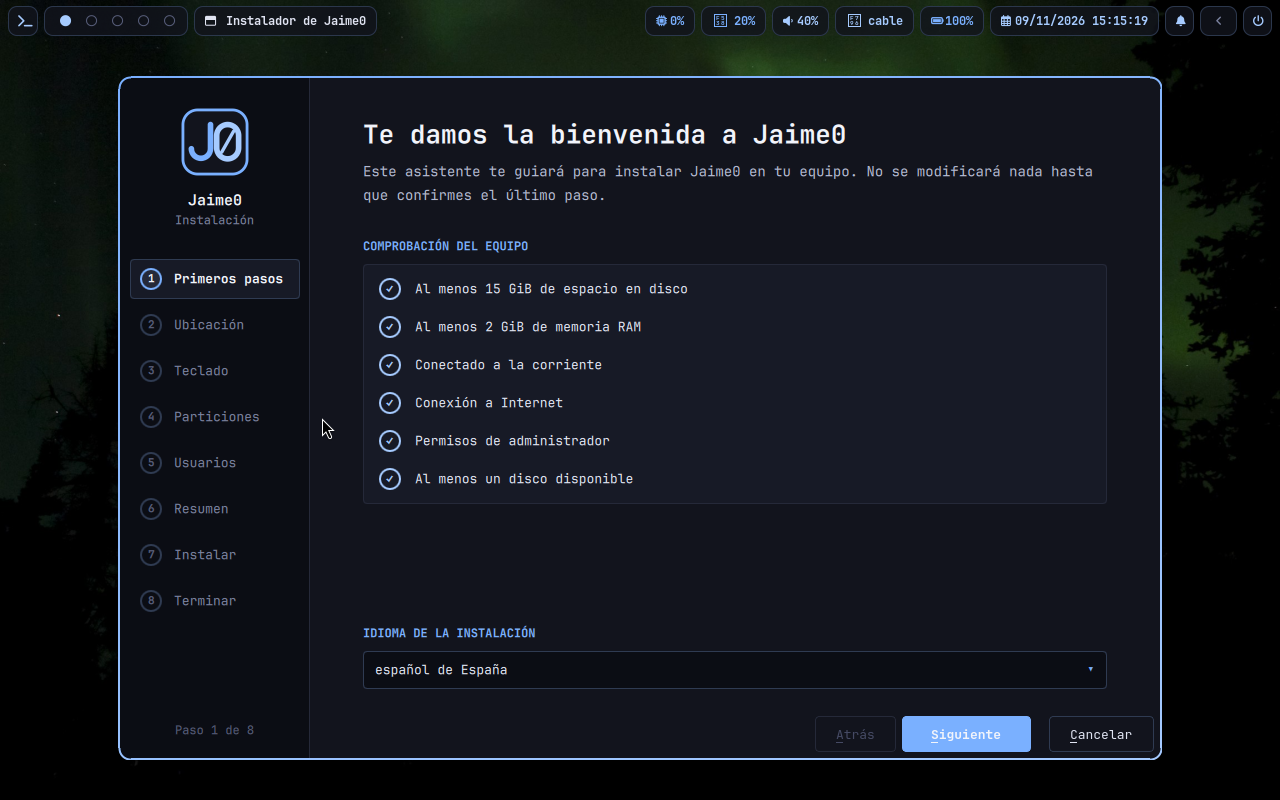
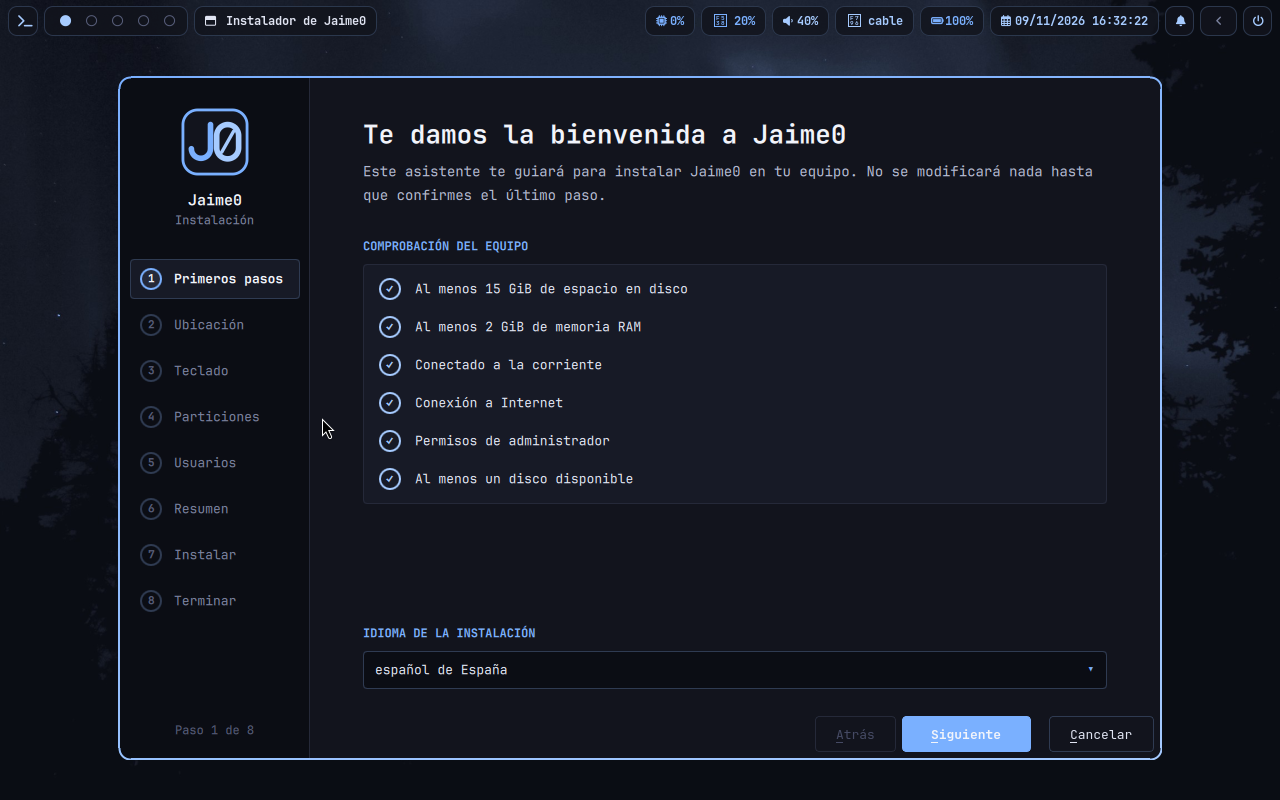
Pasa el fondo de pantalla a tonos azules
La aurora verde se recolorea con la paleta (#0b0d14, #2f3b52 y #7ab0ff) al compilar. La comprobación del fondo mira ahora una rejilla de puntos y exige variedad de tonos azules.

diff --git a/CREDITS.md b/CREDITS.md
@@ -43,6 +43,6 @@ El trabajo original de este repositorio se publica bajo la licencia MIT (`LICENS
 | JetBrainsMono Nerd Font (se descarga al compilar, con SHA256) | JetBrains y Nerd Fonts, SIL OFL 1.1 | https://github.com/ryanoasis/nerd-fonts |
 | Papirus | Papirus Development Team, GPL-3.0 | https://github.com/PapirusDevelopmentTeam/papirus-icon-theme |
 | Adwaita (cursor) | Proyecto GNOME, LGPL-3.0 o CC-BY-SA-3.0 | https://gitlab.gnome.org/GNOME/adwaita-icon-theme |
-| Fondo `aurora.jpg`: «Aurora over the boreal forest» | NPS Photo / Tim Rains, Servicio de Parques Nacionales de EE. UU., dominio público | https://commons.wikimedia.org/wiki/File:Aurora_over_the_boreal_forest_(57be20e1-a3cf-453e-9632-2d38df39b643).jpg |
+| Fondo `aurora.jpg`: «Aurora over the boreal forest», recoloreada en azul | NPS Photo / Tim Rains, Servicio de Parques Nacionales de EE. UU., dominio público | https://commons.wikimedia.org/wiki/File:Aurora_over_the_boreal_forest_(57be20e1-a3cf-453e-9632-2d38df39b643).jpg |
 
 El logotipo de Jaime0 es original. Jaime0 no está afiliado al proyecto Debian ni a ningún otro de los citados.

diff --git a/README.md b/README.md
@@ -220,7 +220,7 @@ En Windows con la **Integridad de memoria** activada, VirtualBox funciona sobre 
 
 ## Paleta
 
-Tres colores base, y el resto son derivados: fondo oscuro `#12141d`, azul `#7ab0ff` y pizarra `#2f3b52`. Rojo y ámbar apagados (`#c96a78`, `#c9a26b`) solo avisan de errores. Los colores ANSI de la terminal están desaturados, para que `git` y `ls` sigan distinguiendo sus tipos.
+Tres colores base, y el resto son derivados: fondo oscuro `#12141d`, azul `#7ab0ff` y pizarra `#2f3b52`. Rojo y ámbar apagados (`#c96a78`, `#c9a26b`) solo avisan de errores. Los colores ANSI de la terminal están desaturados, para que `git` y `ls` sigan distinguiendo sus tipos. El fondo de pantalla es una foto de aurora recoloreada con esos mismos tonos.
 
 ## Qué lleva
 
